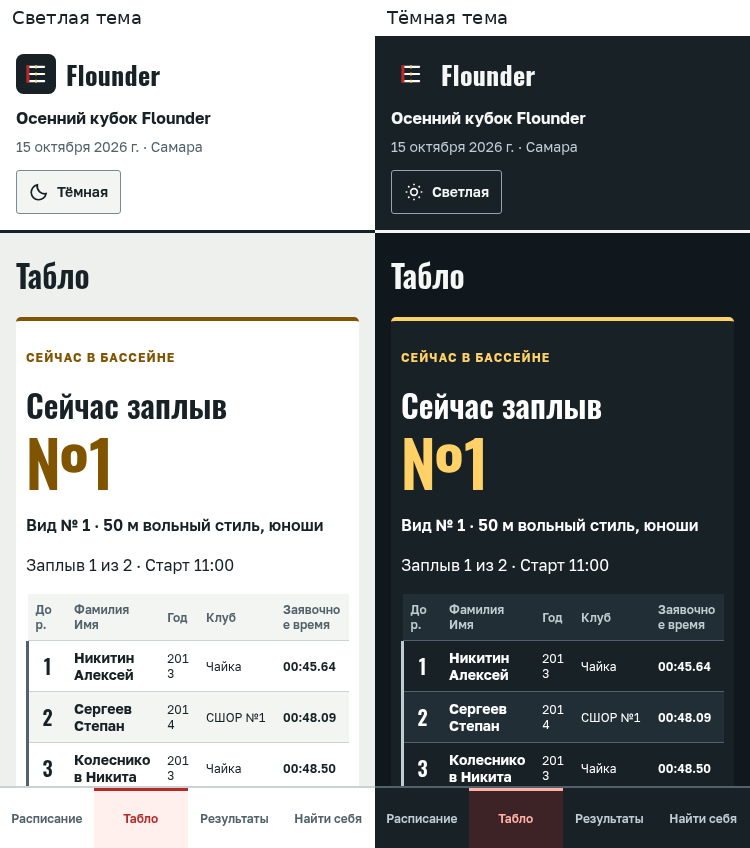
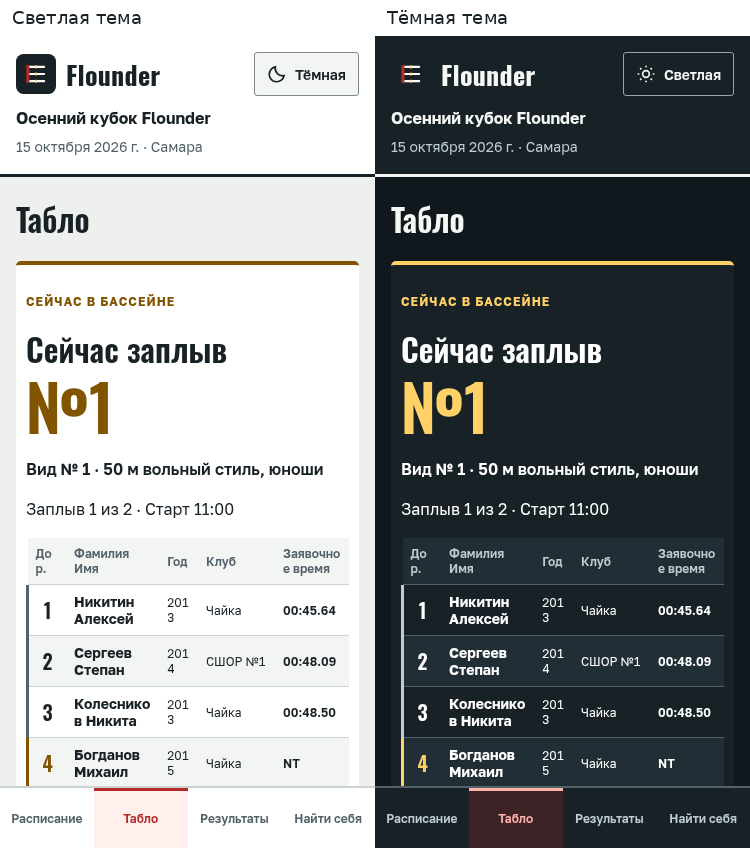
fix(frontend): keep the mobile theme toggle beside the brand

diff --git a/sport-platform/frontend/src/features/public/Public.module.css b/sport-platform/frontend/src/features/public/Public.module.css
@@ -486,7 +486,9 @@
   .liveDescription { font-size: 16px; }
   .live .heatNumber { font-size: 64px; }
   .nav a { font-size: 12px; }
-  .header > div { flex-basis: calc(100% - 110px); }
+  .header { display: grid; grid-template-columns: minmax(0, 1fr) auto; }
+  .header > div { grid-column: 1 / -1; min-width: 0; }
+  .header > button { grid-column: 2; grid-row: 1; }
 }
 
 @media screen {

diff --git a/docs/design/D02_Проверка.md b/docs/design/D02_Проверка.md
@@ -19,7 +19,7 @@ D01 #30 открыт; перед переносом PR в main нужны merge 
 | Axe WCAG 2.1 A/AA | 32 scans, 0 violations: public event/live/results × light/dark × 1366/375; login/register/admin/users/organizations/sports/registration-requests/program/entries/my/judge × 1366/375 |
 | WOFF2 | 106 540 B; проверены русские буквы/Ё/ё, латиница, цифры, №, пунктуация, оси веса; Golos `tnum` сохранён |
 | Воспроизводимость субсетов | два запуска `scripts/subset-d02-fonts.py` дают одинаковые SHA-256 |
-| Скриншоты | 10 PNG, 857 793 B; исходники и журналы только в work |
+| Скриншоты | 10 PNG, 866 044 B; исходники и журналы только в work |
 
 Команды браузерных проверок выполнены с
 `PLAYWRIGHT_CHROMIUM_EXECUTABLE=/usr/bin/chromium`. Демо использует
